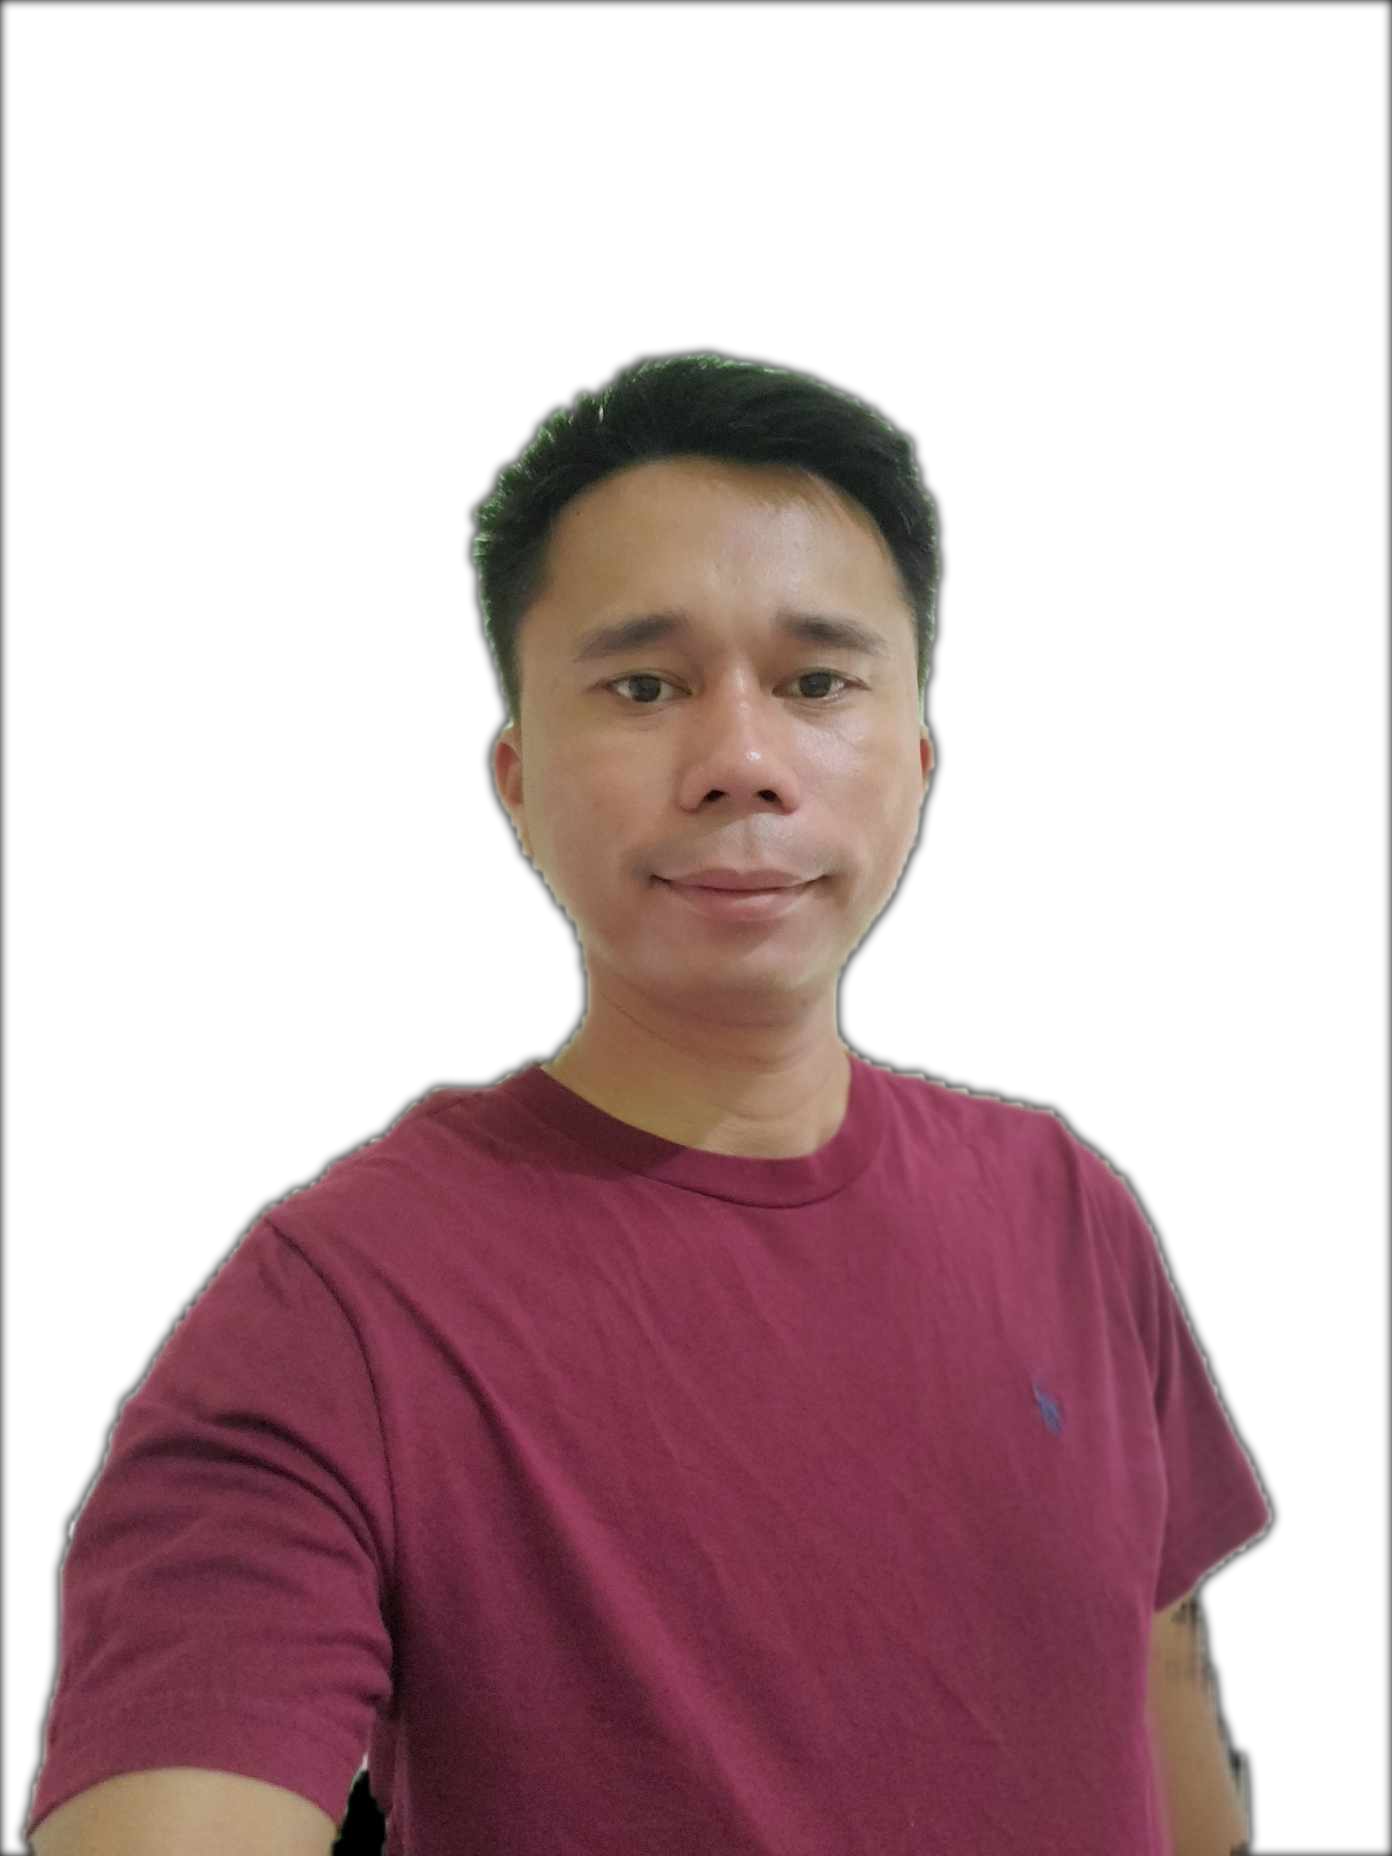
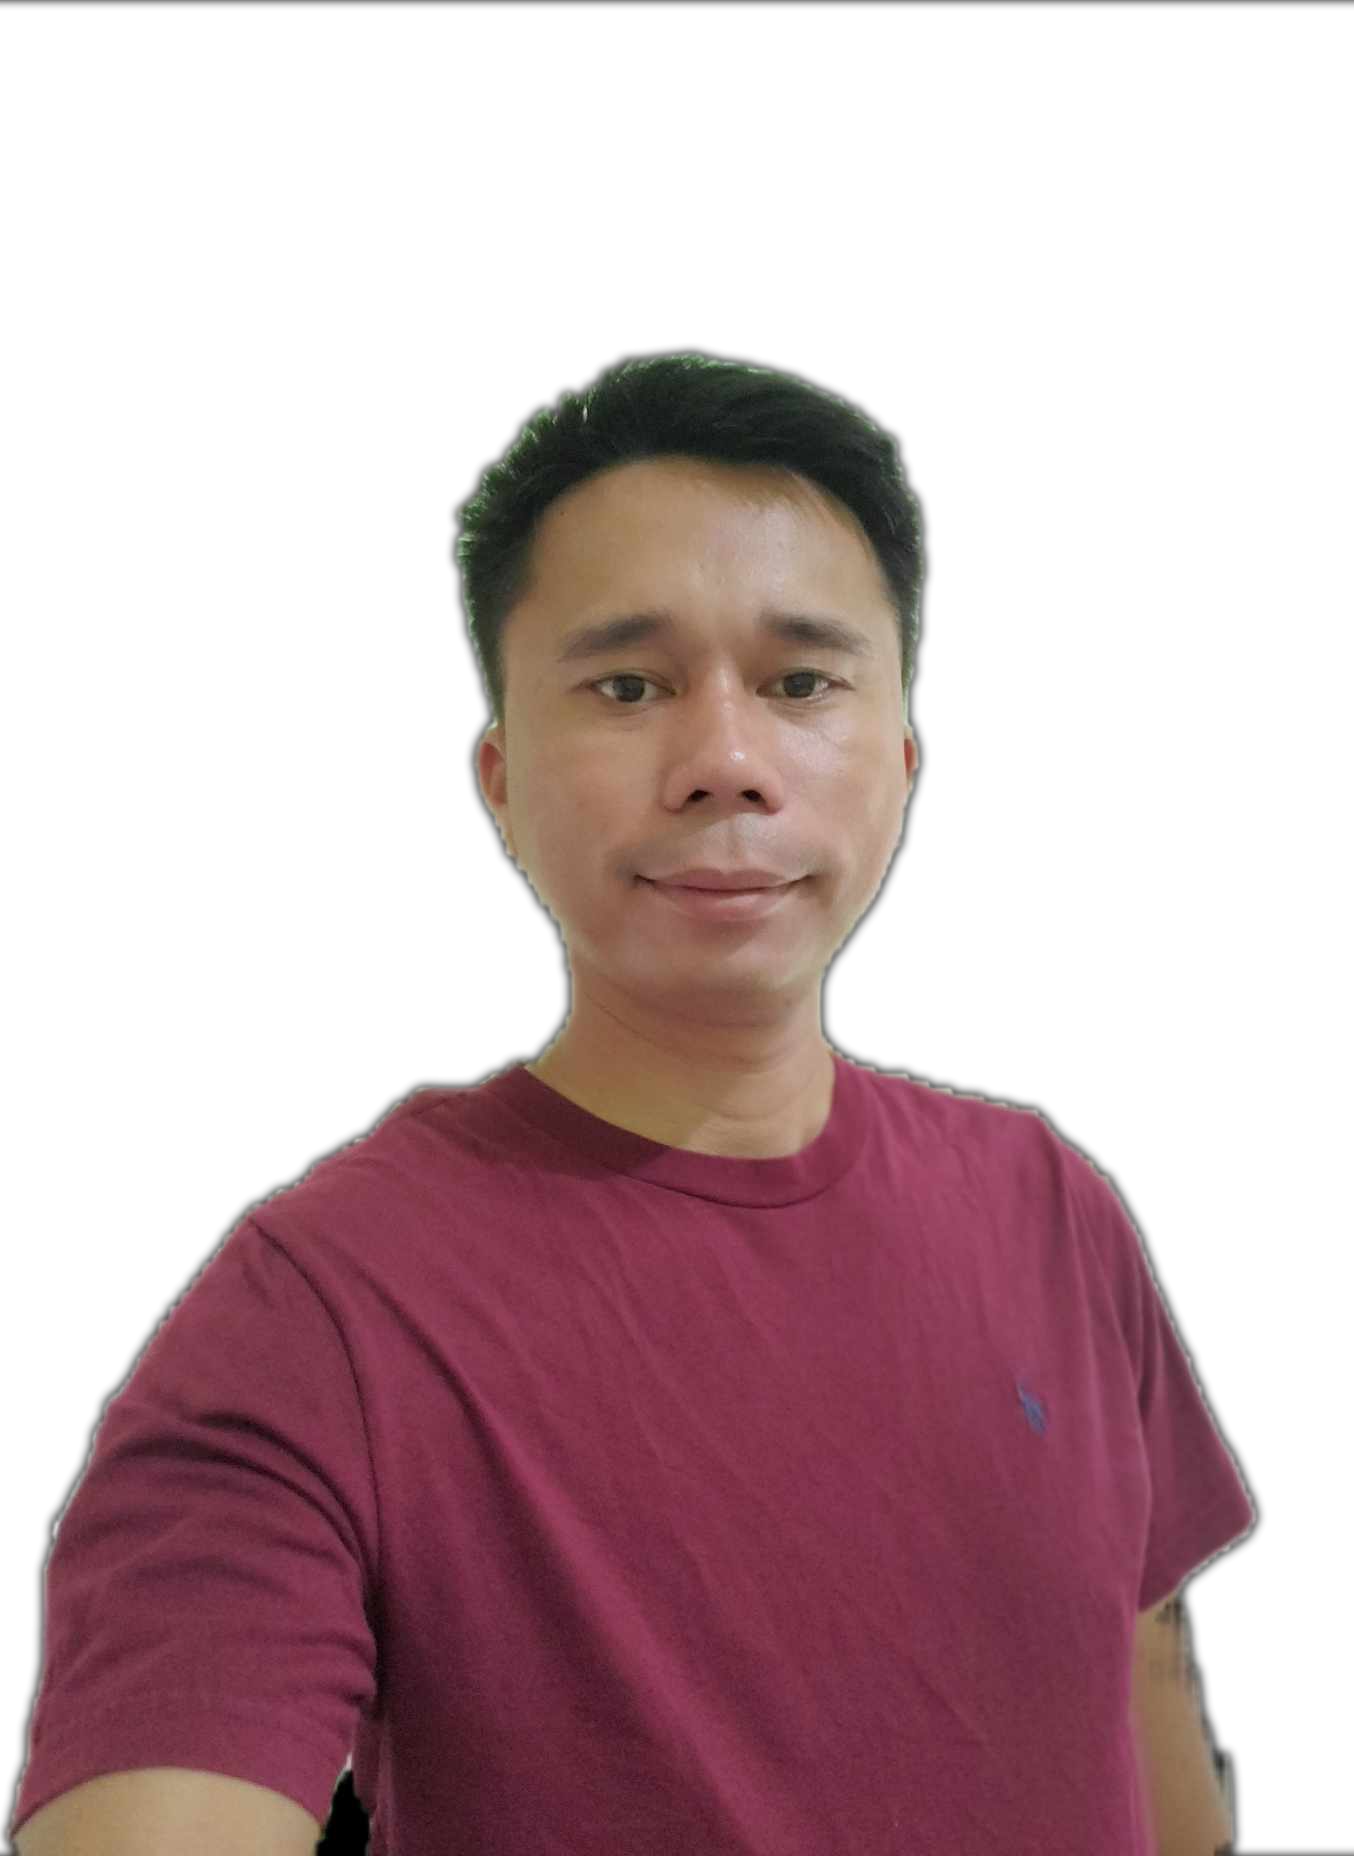
fix: profile image

diff --git a/src/app/(web)/page.tsx b/src/app/(web)/page.tsx
@@ -26,13 +26,15 @@ export default function Index() {
           </p>
         </div>
         <div className='flex flex-col items-center justify-center bg-white'>
-          <Image
-            src={'/images/edward.png'}
-            width={800}
-            height={800}
-            alt='Edward'
-            className='mb-4 h-40 w-40 rounded-full border-8 border-blue-100 object-cover'
-          />
+          <div className='mb-4 h-40 w-40 overflow-hidden rounded-full border-4 border-blue-100  object-cover'>
+            <Image
+              src={'/images/edward.png?2410202301'}
+              width={800}
+              height={800}
+              alt='Edward'
+              className='h-full w-full object-cover'
+            />
+          </div>
           <h1 className='mb-4 text-2xl font-bold'>
             <span className='text-blue-500'>Edward</span>{' '}
             <span className='text-red-500'>Peligrino</span>
